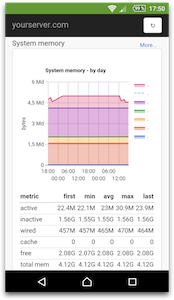
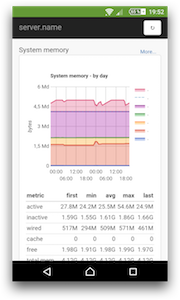
screenshots and plotline updated, description added

diff --git a/index.html b/index.html
@@ -64,8 +64,8 @@ Results may be output in text mode, on an HTML page with interactive graphs or i
 
 <p>
   <a href="images/mt-desktop.png"><img src="images/mt-desktop-300.png" width="218" height="300"></a>
-  <a href="images/mt-smart.png"><img src="images/mt-smart-300.png" width="174" height="300"></a>
-  <a href="images/mt-tab.png"><img src="images/mt-tab-300.png" width="474" height="300"></a>
+  <a href="images/mt-smart.png"><img src="images/mt-smart-300.png" width="180" height="300"></a>
+  <a href="images/mt-tab.png"><img src="images/mt-tab-300.png" width="468" height="300"></a>
 </p>
 
 <h2>
